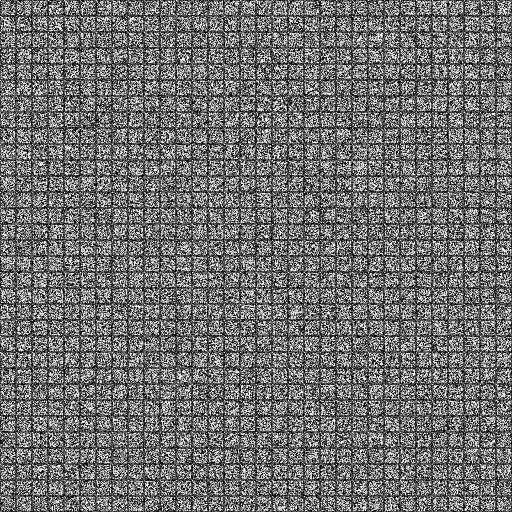
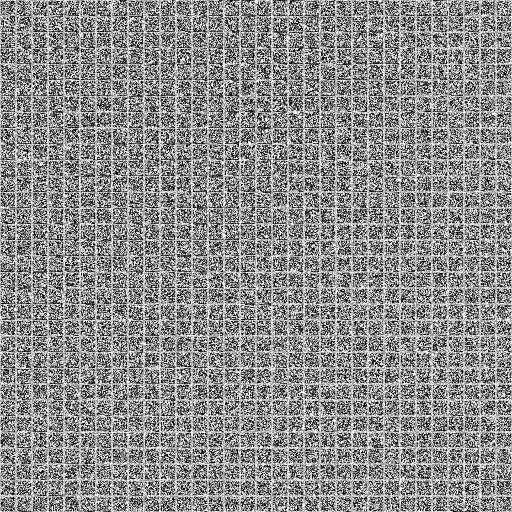
解决调整像素时统计总数溢出问题

Changed region(s): [[0.0, 0.0, 1.0, 1.0]]

diff --git a/Adjust.m b/Adjust.m
@@ -25,9 +25,9 @@ locationx(len:len+blocksize-3) = x+blocksize-1;
 locationy(len:len+blocksize-3) = y+1:y+blocksize-2;
 len = len+blocksize-3;
 sub = origin(x+1:x+blocksize-2,y+1:y+blocksize-2);
-Sum = sum(sub(:));
+Sum = double(sum(sub(:)));
 for i = 1 : len
-    Sum = Sum+Calcu(origin(locationx(i),locationy(i)),MSB);
+    Sum = Sum+double(Calcu(origin(locationx(i),locationy(i)),MSB));
 end
 
 %second: calculate the difference between 'current' and blocksize*blocksize*value
@@ -44,9 +44,9 @@ end
 num = zeros(count);%store the number of every value in number
 if count == 1
     for x = 1 : len
-        Sum = Sum+number(1);
-        difference = abs(Sum-blocksize*blocksize*value);
-        if difference < number(1)
+        s = Sum+number(1)*x;
+        difference = abs(s-blocksize*blocksize*value);
+        if difference < number(1)/2 || x == len
             num(1) = x;
             break;
         end
@@ -57,12 +57,12 @@ if count == 1
     for i = num(1)+1 : len
        AjImage(locationx(i),locationy(i))=Calcu(origin(locationx(i),locationy(i)),MSB);
     end 
-elseif count == 2
+elseif count == 3
     for x = 0 : len
         for y = 0 : len-x
-            Sum = Sum+number(1)*x+number(2)*y;
-            difference = abs(Sum-blocksize*blocksize*value);
-            if difference < number(1)
+            s = Sum+number(1)*x+number(2)*y;
+            difference = abs(s-blocksize*blocksize*value);
+            if difference < number(1)/2 || x+y==len
                 num(1) = x;
                 num(2) = y;
                 break;
@@ -78,7 +78,7 @@ elseif count == 2
     for i = num(2)+1 : len
        AjImage(locationx(i),locationy(i))=Calcu(origin(locationx(i),locationy(i)),MSB);
     end 
-elseif count == 3
+elseif count == 7
     for x = 0 : len
         for y = 0 : len-x
             for z = 0 : len-x-y
@@ -86,9 +86,9 @@ elseif count == 3
                     for q = 0 : len-x-y-z-p
                         for r = 0 : len-x-y-z-p-q
                             for n = 0 : len-x-y-z-p-q-r
-                                Sum = Sum+number(1)*x+number(2)*y+number(3)*z+number(4)*p+number(5)*q+number(6)*r+number(7)*n;
-                                difference = abs(Sum-blocksize*blocksize*value);
-                                if difference < number(1)
+                                s = Sum+number(1)*x+number(2)*y+number(3)*z+number(4)*p+number(5)*q+number(6)*r+number(7)*n;
+                                difference = abs(s-blocksize*blocksize*value);
+                                if difference < number(1)/2 ||x+y+z+p+q+r+n==len
                                     num(1) = x;
                                     num(2) = y;
                                     num(3) = z;

diff --git a/main.m b/main.m
@@ -9,12 +9,10 @@ key = 1;
 m = M/blocksize;
 n = N/blocksize;
 values = zeros(m,n);%store the original average pixel of every block
-t = 1;%means the length+1 of values
 for i = 1 : m
     for j = 1 : n
-        sub = origin(i:blocksize-1,j:blocksize-1);
+        sub = origin(i:i+blocksize-1,j:j+blocksize-1);
         values(i,j) = mean2(sub);
-        t = t+1;
     end 
 end
 
@@ -27,3 +25,26 @@ ReImage = Recovery( DeImage , blocksize , MSB );
 imwrite(AjImage,'result.png','png');
 imwrite(ReImage,'recover.png','png');
 
+res_values = zeros(m,n);%store the original average pixel of every block
+for i = 1 : m
+    for j = 1 : n
+        sub = AjImage(i:i+blocksize-1,j:j+blocksize-1);
+        res_values(i,j) = mean2(sub);
+    end 
+end
+
+%caculate the difference between origin image and AjImage
+sum = double(0);
+for i = 1 : m
+    for j = 1 : n
+        t = abs(res_values(i,j)-values(i,j))/values(i,j);
+        sum = sum+t;
+    end
+end
+difference = sum/(m*n)
+
+%generate the trump
+% values = image(values);
+% res_values = image(res_values);
+% imwrite(values,'rev_origin.png','png');
+% imwrite(res_values,'rev_result.png','png');
